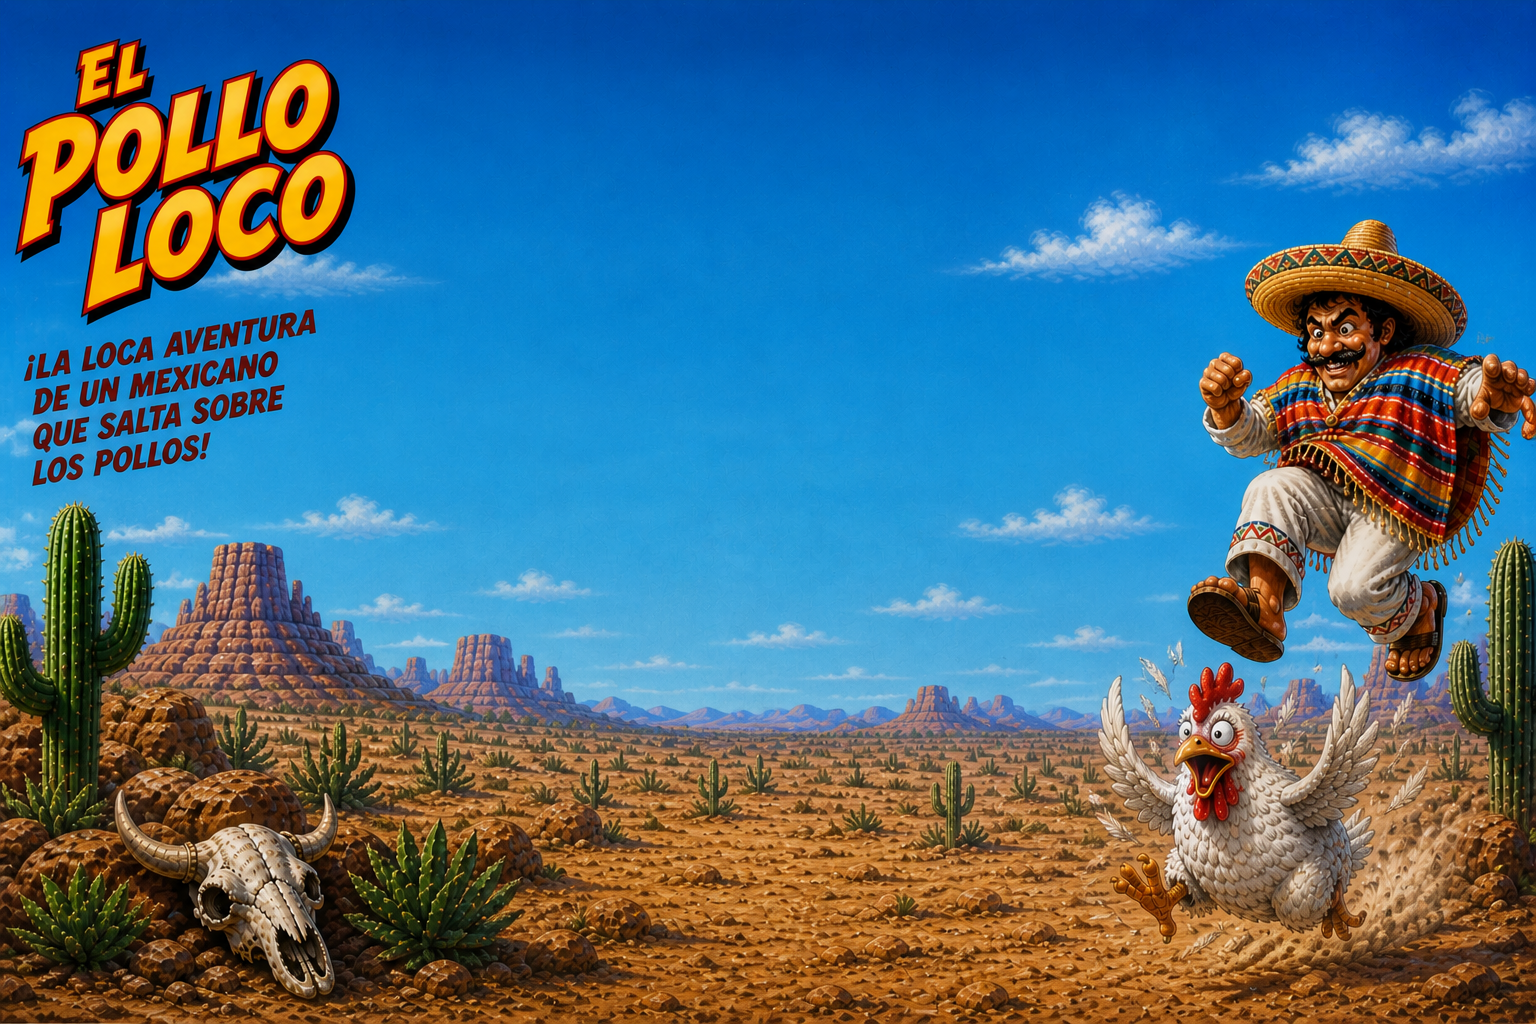
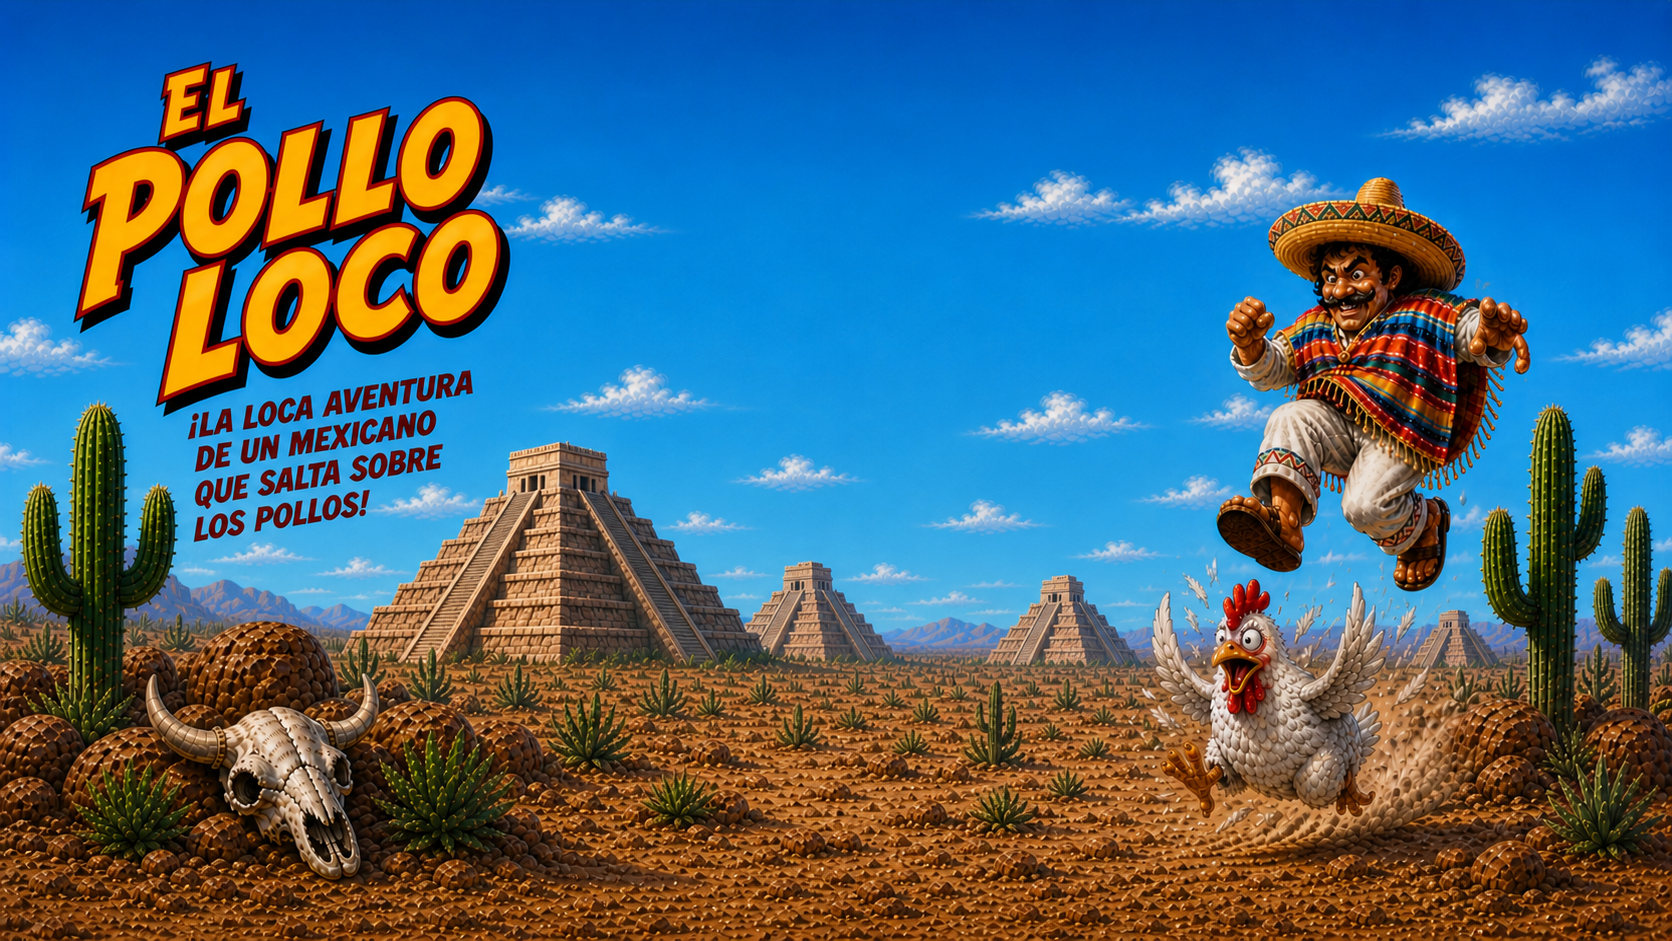
background_img changed

diff --git a/style.css b/style.css
@@ -3,12 +3,12 @@ body {
   flex-direction: column;
   align-items: center;
   justify-content: center;
-  background-image: url("./img/background.png");
-  background-size: contain;
+  background-image: url("./img/background_new.png");
+  background-size: cover;
   background-repeat: no-repeat;
   background-position: center;
-  height: 100dvh;
-  background-color: #000;
+  min-height: 100dvh;
+  background-attachment: fixed;
 }
 
 canvas {
